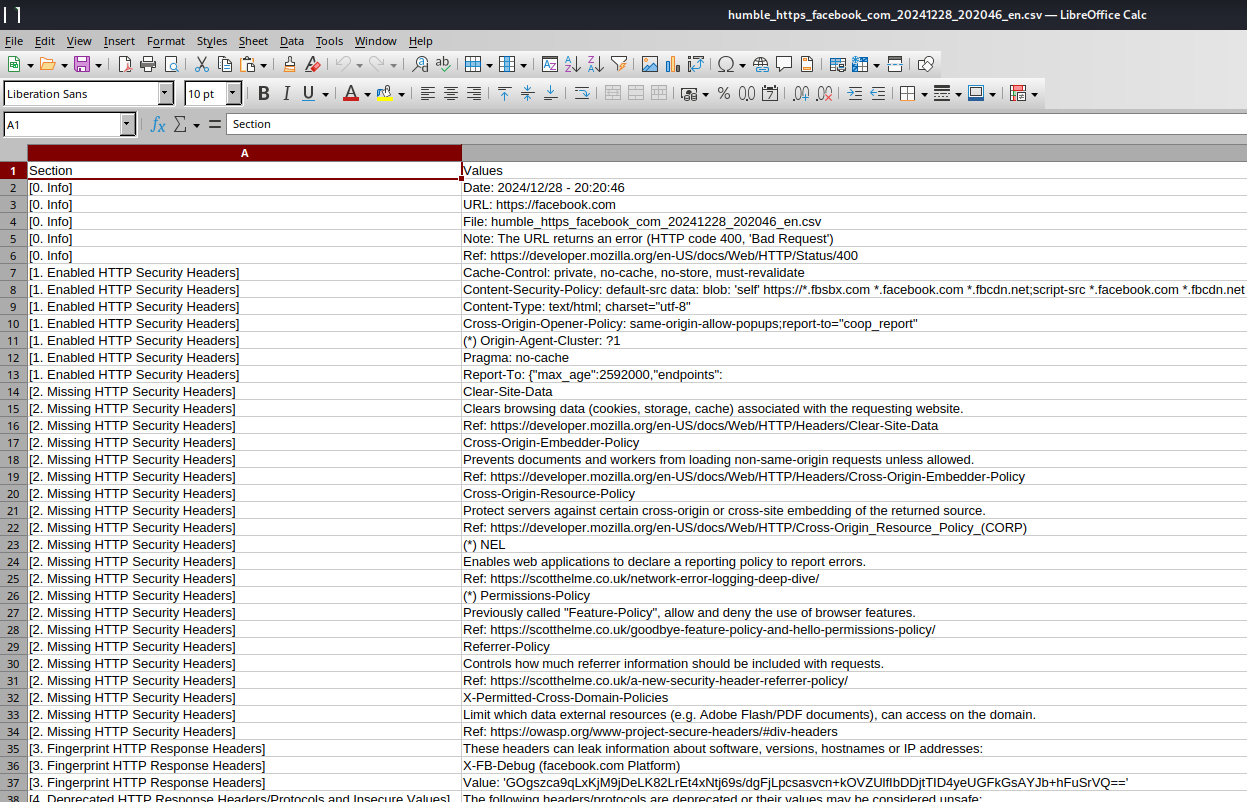
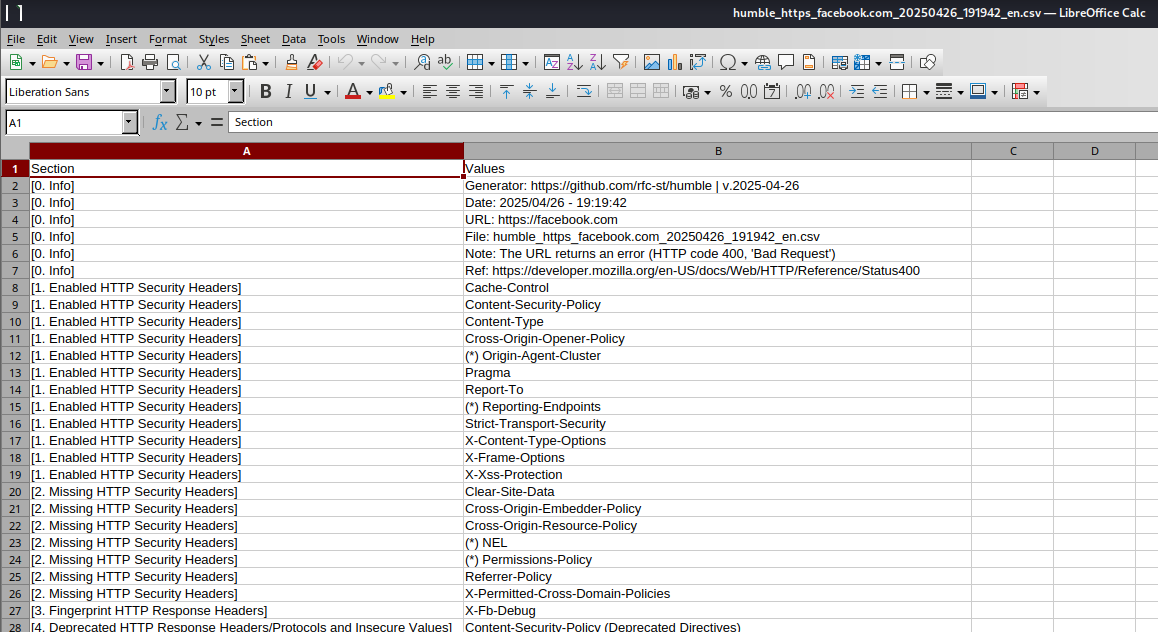
Minor: Code optimizations (related to CSV and JSON outputs)

diff --git a/humble.py b/humble.py
@@ -156,7 +156,7 @@ URL_STRING = ('rfc-st', ' URL  : ', 'caniuse')
 XML_STRING = ('Ref: ', 'Value: ', 'Valor: ')
 
 current_time = datetime.now().strftime("%Y/%m/%d - %H:%M:%S")
-local_version = datetime.strptime('2025-04-25', '%Y-%m-%d').date()
+local_version = datetime.strptime('2025-04-26', '%Y-%m-%d').date()
 
 
 class SSLContextAdapter(requests.adapters.HTTPAdapter):
@@ -1361,9 +1361,12 @@ def generate_csv(temp_filename, final_filename):
          open(final_filename, 'w', newline='', encoding='utf8') as csv_final:
         csv_source = txt_source.read()
         csv_writer = writer(csv_final, quoting=QUOTE_ALL)
+        csv_writer.writerow([get_detail('[csv_section]', replace=True),
+                             get_detail('[csv_values]', replace=True)])
+        csv_writer.writerow([get_detail('[0section]', replace=True),
+                             f"{get_detail('[json_gen]')}: {URL_LIST[4]} | \
+v.{local_version}"])
         csv_section = [get_detail(f'[{i}]', replace=True) for i in CSV_SECTION]
-        csv_writer.writerow([get_detail(f'[{i}]', replace=True) for i in
-                             ['csv_section', 'csv_values']])
         parse_csv(csv_writer, csv_source, csv_section)
     print_export_path(final_filename, reliable)
     remove(temp_filename)
@@ -1407,6 +1410,9 @@ def write_json(section0, sectionh, section5, section6, json_section, json_lns):
     if json_section in (section0, sectionh, section5, section6):
         json_data = {}
         format_json(json_data, json_lns)
+        if json_section == section0:
+            json_data = {get_detail('[json_gen]'): f"{URL_LIST[4]} | \
+v.{local_version}", **json_data}
     else:
         json_data = list(json_lns)
     return json_data

diff --git a/README.md b/README.md
@@ -6,7 +6,7 @@
 <a target="_blank" href="https://devguide.python.org/versions/" title="Minimum Python version required to run this tool"><img src="https://img.shields.io/badge/Python-%3E%3D3.9-blue?labelColor=343b41"></a>
 <a target="_blank" href="LICENSE" title="License of this tool"><img src="https://img.shields.io/badge/License-MIT-blue.svg?labelColor=343b41"></a>
 <a target="_blank" href="https://github.com/rfc-st/humble/releases" title="Latest release of this tool"><img src="https://img.shields.io/github/v/release/rfc-st/humble?display_name=release&label=Latest%20Release&labelColor=343b41"></a>
-<a target="_blank" href="https://github.com/rfc-st/humble/commits/master" title="Latest commit of this tool"><img src="https://img.shields.io/badge/Latest_Commit-2025--04--25-blue.svg?labelColor=343b41"></a>
+<a target="_blank" href="https://github.com/rfc-st/humble/commits/master" title="Latest commit of this tool"><img src="https://img.shields.io/badge/Latest_Commit-2025--04--26-blue.svg?labelColor=343b41"></a>
 <a target="_blank" href="https://pkg.kali.org/pkg/humble" title="Official tool in Kali Linux"><img src="https://img.shields.io/badge/Kali%20Linux-Tool-blue?labelColor=343b41"></a>
 <br />
 <a target="_blank" href="#" title="Featured on:"><img src="https://img.shields.io/badge/Featured%20on:-343b41"></a>
@@ -137,7 +137,7 @@ Options used: -f -g -p -U -s --hints
 <img src="https://github.com/rfc-st/humble/blob/master/screenshots/humble_fng.jpg" alt="(Linux) - List of HTTP fingerprint headers based on a specific term" width=70% height=70%>
 </p>
 <br />
-.: (Linux) - Detailed analysis saved as CSV. <a href="https://github.com/rfc-st/humble/raw/master/samples/humble_https_facebook_com_20241228_202046_en.csv">Example.</a><br />
+.: (Linux) - Brief analysis saved as CSV. <a href="https://github.com/rfc-st/humble/raw/master/samples/humble_https_facebook.com_20250426_191942_en.csv">Example.</a><br />
 <p></p>
 <p align="center">
 <img src="https://github.com/rfc-st/humble/blob/master/screenshots/humble_csv_s.PNG" alt="(Linux) - Brief analysis saved as CSV" width=70% height=70%>
@@ -155,7 +155,7 @@ Options used: -f -g -p -U -s --hints
 <img src="https://github.com/rfc-st/humble/blob/master/screenshots/humble_html_s.PNG" alt="(Linux) - Detailed analysis saved as HTML" width=70% height=70%>
 </p>
 <br />
-.: (Linux) - Brief analysis saved as JSON. <a href="http://jsonblob.com/1322654115905593344">Example.</a><br />
+.: (Linux) - Brief analysis saved as JSON. <a href="http://jsonblob.com/1365739609765634048">Example.</a><br />
 <p></p>
 <p align="center">
 <img src="https://github.com/rfc-st/humble/blob/master/screenshots/humble_json_s.PNG" alt="(Linux) - Brief analysis saved as JSON" width=70% height=70%>
